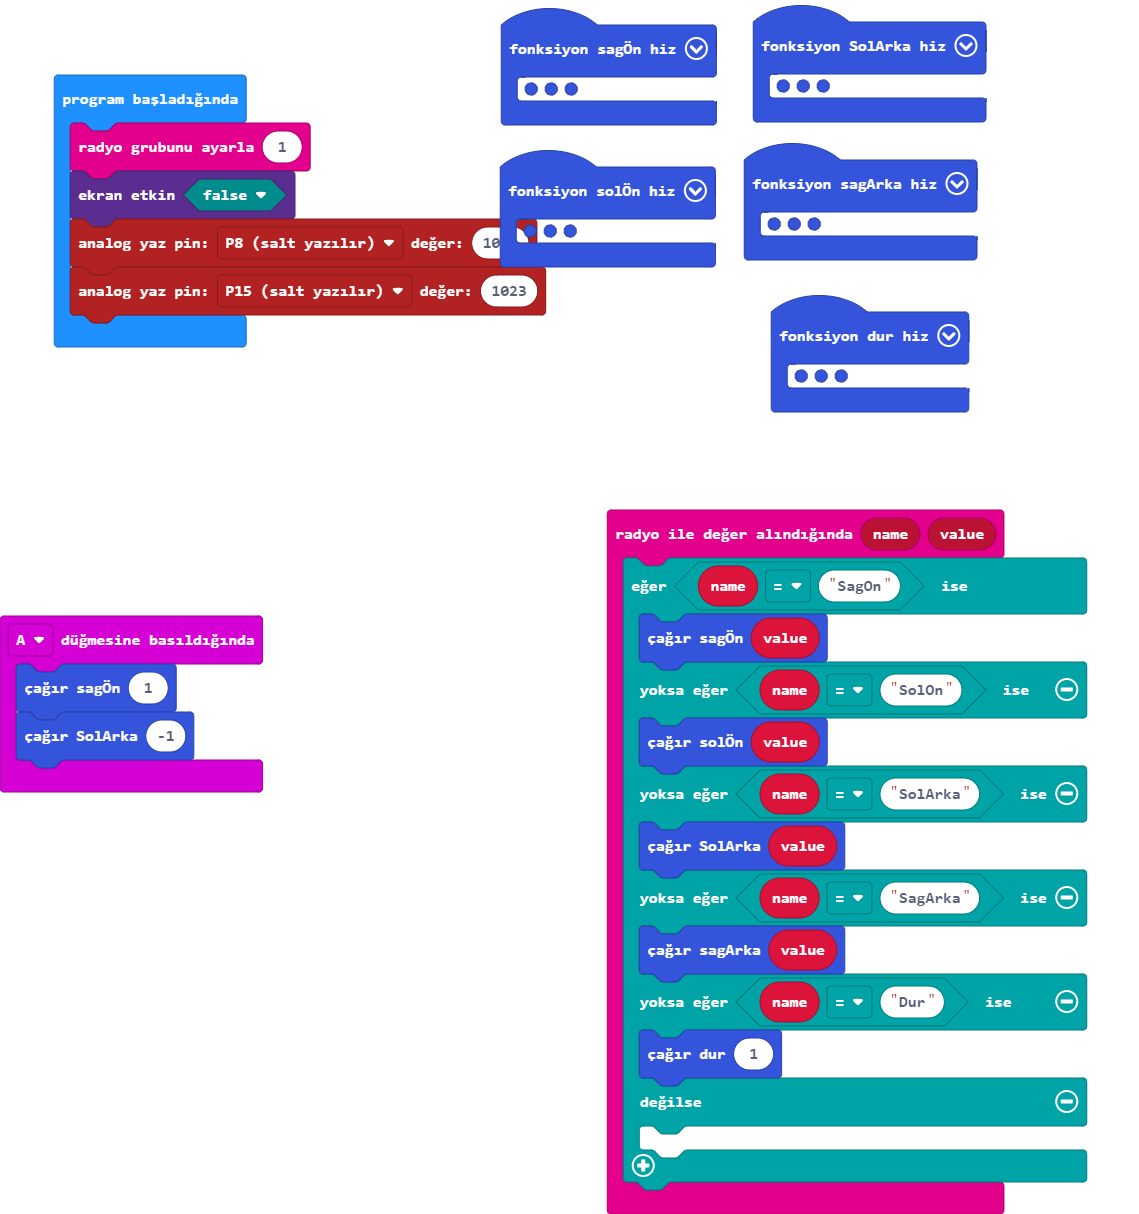
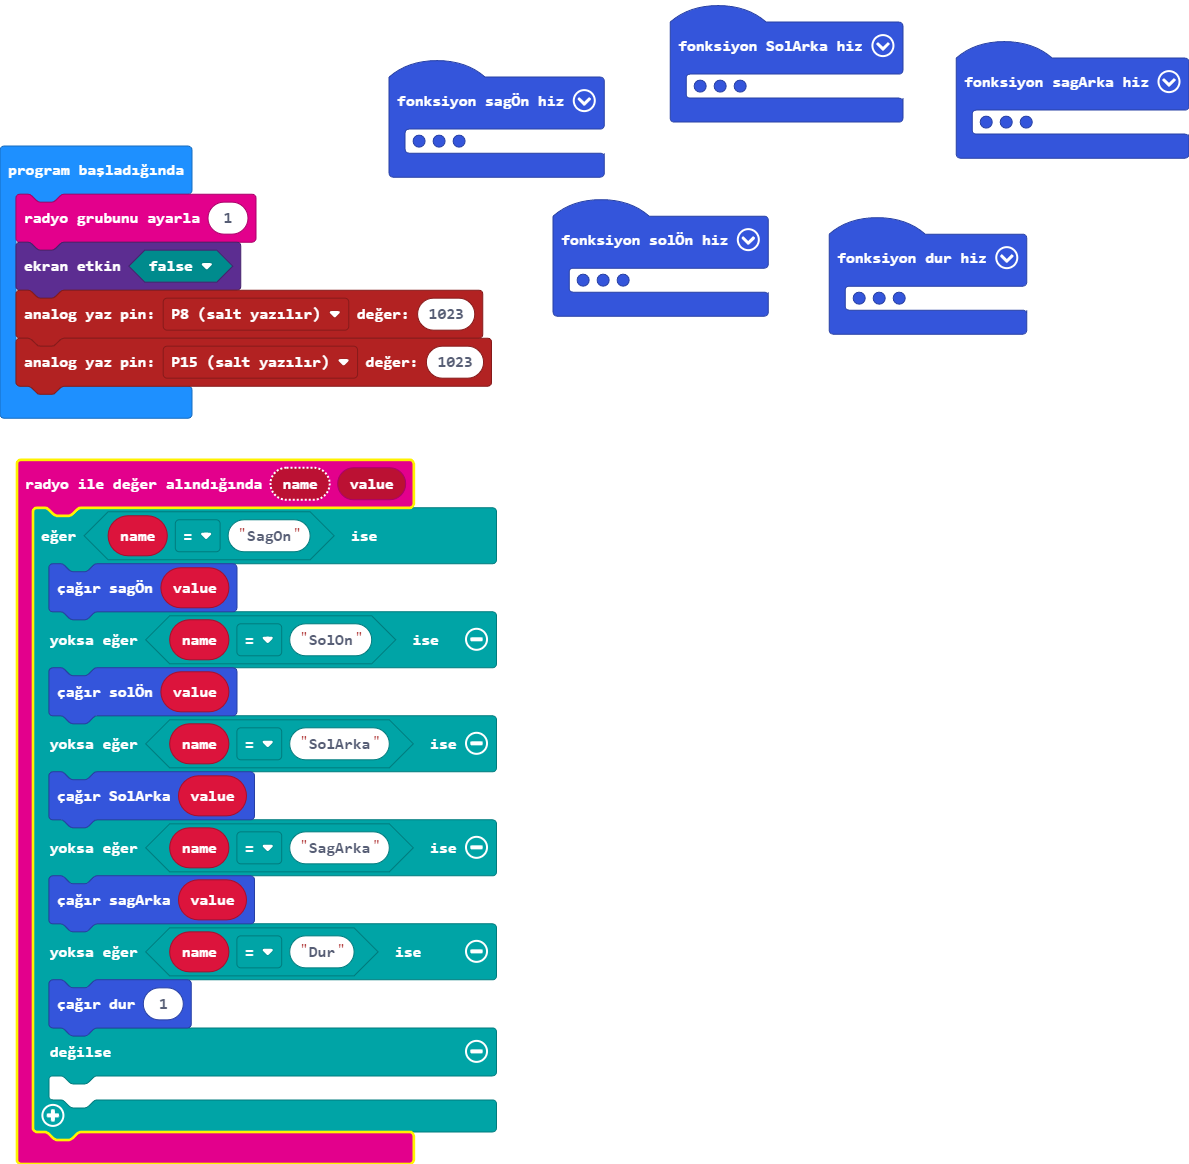
09.06.2022

diff --git a/main.ts b/main.ts
@@ -1,5 +1,8 @@
 function SolArka (hiz: number) {
-    if (hiz > 0) {
+    if (hiz == 0) {
+        pins.digitalWritePin(DigitalPin.P12, 0)
+        pins.digitalWritePin(DigitalPin.P2, 0)
+    } else if (hiz > 0) {
         pins.digitalWritePin(DigitalPin.P12, 0)
         pins.digitalWritePin(DigitalPin.P2, 1)
     } else {
@@ -8,7 +11,10 @@ function SolArka (hiz: number) {
     }
 }
 function sagÖn (hiz: number) {
-    if (hiz > 0) {
+    if (hiz == 0) {
+        pins.digitalWritePin(DigitalPin.P9, 0)
+        pins.digitalWritePin(DigitalPin.P10, 0)
+    } else if (hiz > 0) {
         pins.digitalWritePin(DigitalPin.P9, 0)
         pins.digitalWritePin(DigitalPin.P10, 1)
     } else {
@@ -17,7 +23,10 @@ function sagÖn (hiz: number) {
     }
 }
 function solÖn (hiz: number) {
-    if (hiz > 0) {
+    if (hiz == 0) {
+        pins.digitalWritePin(DigitalPin.P13, 0)
+        pins.digitalWritePin(DigitalPin.P14, 0)
+    } else if (hiz > 0) {
         pins.digitalWritePin(DigitalPin.P13, 0)
         pins.digitalWritePin(DigitalPin.P14, 1)
     } else {
@@ -25,10 +34,6 @@ function solÖn (hiz: number) {
         pins.digitalWritePin(DigitalPin.P14, 0)
     }
 }
-input.onButtonPressed(Button.A, function () {
-    sagÖn(1)
-    SolArka(-1)
-})
 radio.onReceivedValue(function (name, value) {
     if (name == "SagOn") {
         sagÖn(value)
@@ -55,7 +60,10 @@ function dur (hiz: number) {
     pins.digitalWritePin(DigitalPin.P10, 0)
 }
 function sagArka (hiz: number) {
-    if (hiz > 0) {
+    if (hiz == 0) {
+        pins.digitalWritePin(DigitalPin.P6, 0)
+        pins.digitalWritePin(DigitalPin.P7, 0)
+    } else if (hiz > 0) {
         pins.digitalWritePin(DigitalPin.P6, 0)
         pins.digitalWritePin(DigitalPin.P7, 1)
     } else {
